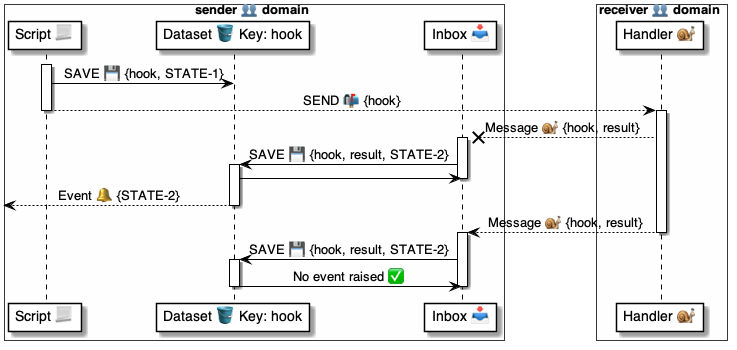
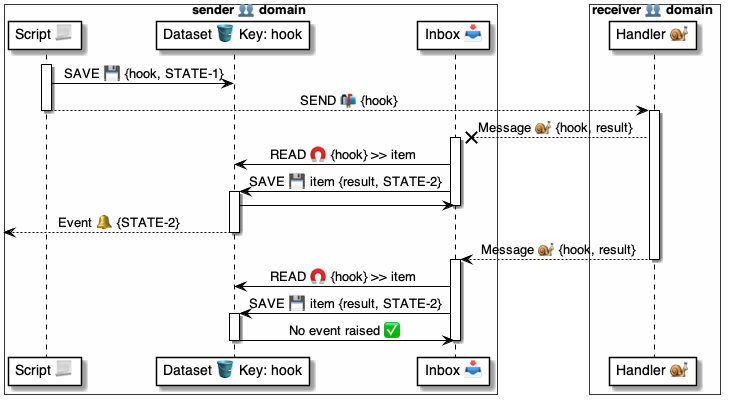
.

Changed region(s): [[0.0, 0.0, 0.9945, 1.0], [0.3014, 0.3143, 0.3315, 0.3429]]

diff --git a/4 ⚙ Solution/45 🤲 Helper domains/Itemizers 🛢/🛢♒ Itemizer patterns/Optimistic concurrency ♒/🛢 Optimistic concurrency ♒ pattern.md b/4 ⚙ Solution/45 🤲 Helper domains/Itemizers 🛢/🛢♒ Itemizer patterns/Optimistic concurrency ♒/🛢 Optimistic concurrency ♒ pattern.md
@@ -1,5 +1,8 @@
 # 🛢 Optimistic concurrency ♒ pattern
 
+> Part of [Itemizer 🛢 helper domains](<../../🛢 Itemizer helper/🛢🤲 Itemizer helper.md>)
+
+
 The Optimistic concurrency pattern allows multiple [`SAVE`](<../../../../37 Scripts 📃/📃 Commands ⌘/⌘ for datasets 🪣/SAVE 💾/💾 SAVE ⌘ cmd.md>) commands to run in parallel without locking resources, assuming that conflicts are rare. 
 * On [`SAVE`](<../../../../37 Scripts 📃/📃 Commands ⌘/⌘ for datasets 🪣/SAVE 💾/💾 SAVE ⌘ cmd.md>), [Itemizers 🛢](<../../🛢 Itemizer helper/🛢🤲 Itemizer helper.md>) check if the key was modified by another [`SAVE`](<../../../../37 Scripts 📃/📃 Commands ⌘/⌘ for datasets 🪣/SAVE 💾/💾 SAVE ⌘ cmd.md>). 
 * If a conflict is detected, an [`ERROR`](<../../../../37 Scripts 📃/📃 Commands ⌘/⌘ for control ▶/ERROR 💥/💥 ERROR ⌘ cmd.md>) is returned.

diff --git a/4 ⚙ Solution/45 🤲 Helper domains/Itemizers 🛢/🛢♒ Itemizer patterns/Idempotency on update ♒/🛢 Update Idempotency ♒ pattern.md b/4 ⚙ Solution/45 🤲 Helper domains/Itemizers 🛢/🛢♒ Itemizer patterns/Idempotency on update ♒/🛢 Update Idempotency ♒ pattern.md
@@ -1,6 +1,10 @@
 # 🛢 Update Idempotency ♒ pattern
 
-The Update Idempotency ♒ pattern ensures that repeated update operations with the same data do not alter the state of the database beyond the initial update. This is particularly useful in scenarios where network issues or retries may lead to multiple identical update requests.
+> Part of [Itemizer 🛢 helper domains](<../../🛢 Itemizer helper/🛢🤲 Itemizer helper.md>)
+
+
+The Update Idempotency ♒ pattern ensures that repeated [`SAVE`](<../../../../37 Scripts 📃/📃 Commands ⌘/⌘ for datasets 🪣/SAVE 💾/💾 SAVE ⌘ cmd.md>) operations with the same data do not trigger more than one event.
+* This is particularly useful in scenarios where network issues or retries may lead to multiple identical [`SAVE`](<../../../../37 Scripts 📃/📃 Commands ⌘/⌘ for datasets 🪣/SAVE 💾/💾 SAVE ⌘ cmd.md>) requests.
 
 ## Diagram
 

diff --git a/4 ⚙ Solution/45 🤲 Helper domains/Itemizers 🛢/🛢♒ Itemizer patterns/Idempotency on insert ♒/🛢 Insert Idempotency ♒ pattern.md b/4 ⚙ Solution/45 🤲 Helper domains/Itemizers 🛢/🛢♒ Itemizer patterns/Idempotency on insert ♒/🛢 Insert Idempotency ♒ pattern.md
@@ -1,5 +1,7 @@
 # 🛢 Insert Idempotency ♒ pattern
 
+> Part of [Itemizer 🛢 helper domains](<../../🛢 Itemizer helper/🛢🤲 Itemizer helper.md>)
+
 The Insert Idempotency ♒ pattern ensures that repeated insert operations with the same data do not create duplicate records in the database. This is particularly useful in scenarios where network issues or retries may lead to multiple identical insert requests.
 
 ## Diagram
